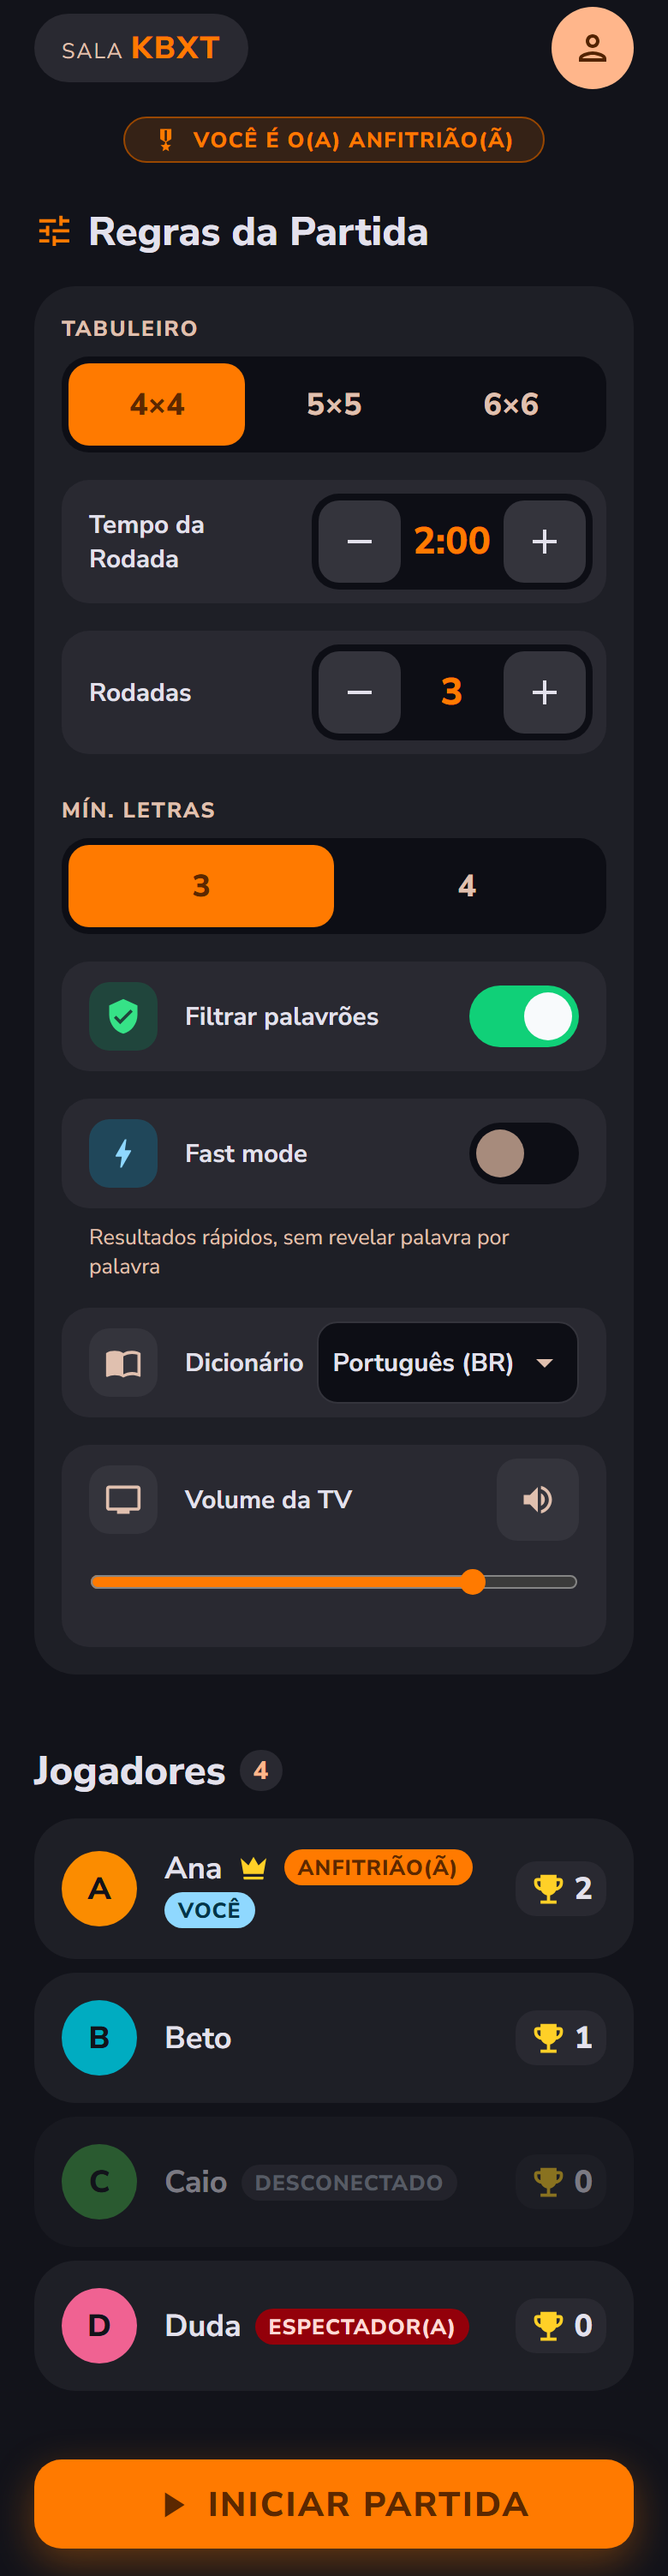
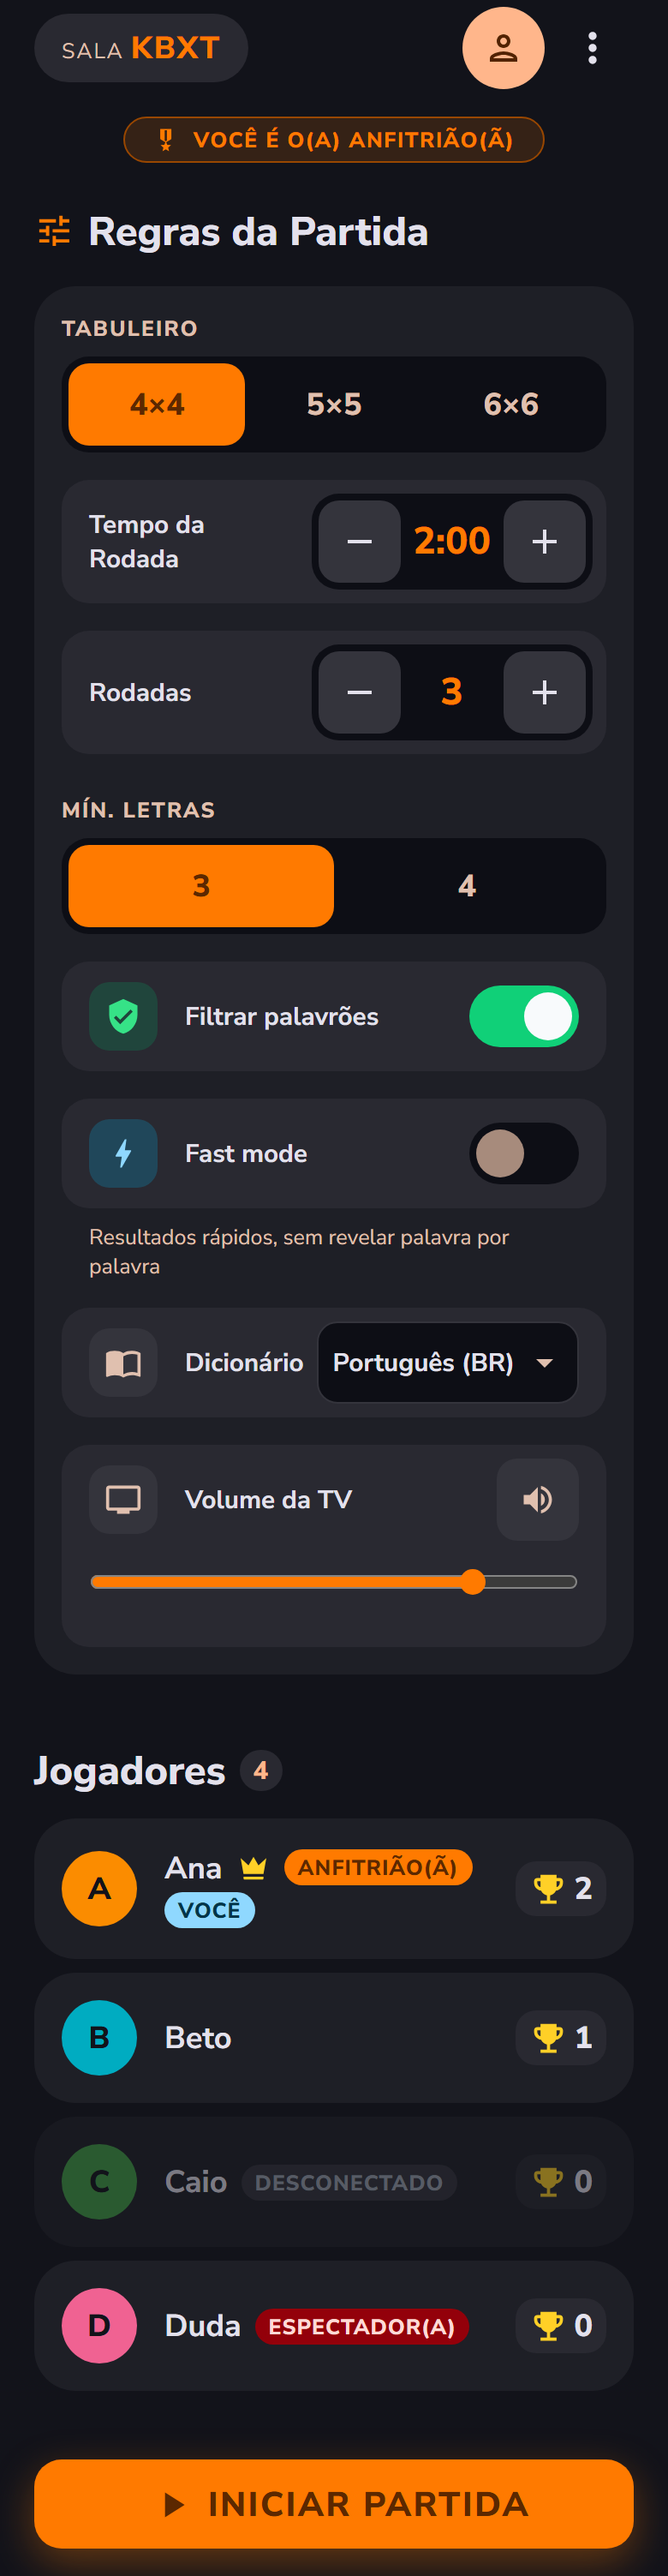
feat(phone): host menu
The host's menu (⋮) with Encerrar sala behind a confirmation; tasks.md records the phase 3 batch as returned.

Changed region(s): [[0.6769, 0.0, 0.9538, 0.0619]]

diff --git a/packages/phone/src/components/HostMenu.tsx b/packages/phone/src/components/HostMenu.tsx
@@ -1,0 +1,67 @@
+import { useState } from 'preact/hooks';
+import { STRINGS } from '../strings/pt-BR.ts';
+import '../styles/host-menu.css';
+import { ConfirmDialog } from './ConfirmDialog.tsx';
+import { MoreVertIcon } from './icons.tsx';
+
+/** One entry of the host's menu; it acts only after its confirmation. */
+export interface HostMenuItem {
+  label: string;
+  /** The question asked before acting, as "Encerrar a sala? Todos os jogadores saem.". */
+  confirm: string;
+  onConfirm: () => void;
+}
+
+/** Props of `HostMenu`. */
+export interface HostMenuProps {
+  items: readonly HostMenuItem[];
+}
+
+/**
+ * The host's menu (⋮) in the top bar; every entry asks for a confirmation and only
+ * then acts (HOST-01 AC 15, HOSTPLAY-01).
+ */
+export function HostMenu({ items }: HostMenuProps) {
+  const [isOpen, setOpen] = useState(false);
+  const [confirming, setConfirming] = useState<HostMenuItem | null>(null);
+
+  function choose(item: HostMenuItem): void {
+    setOpen(false);
+    setConfirming(item);
+  }
+
+  function confirm(item: HostMenuItem): void {
+    setConfirming(null);
+    item.onConfirm();
+  }
+
+  return (
+    <div class="host-menu">
+      <button type="button" class="host-menu__toggle" aria-label={STRINGS.hostMenu} aria-expanded={isOpen} onClick={() => setOpen(!isOpen)}>
+        <MoreVertIcon />
+      </button>
+      {isOpen && (
+        <>
+          <div class="host-menu__backdrop" aria-hidden="true" onClick={() => setOpen(false)} />
+          <ul class="host-menu__list" role="menu">
+            {items.map((item) => (
+              <li key={item.label} role="none">
+                <button type="button" role="menuitem" class="host-menu__item" onClick={() => choose(item)}>
+                  {item.label}
+                </button>
+              </li>
+            ))}
+          </ul>
+        </>
+      )}
+      {confirming !== null && (
+        <ConfirmDialog
+          message={confirming.confirm}
+          confirmLabel={confirming.label}
+          onConfirm={() => confirm(confirming)}
+          onCancel={() => setConfirming(null)}
+        />
+      )}
+    </div>
+  );
+}

diff --git a/packages/phone/e2e/host-actions.spec.ts b/packages/phone/e2e/host-actions.spec.ts
@@ -134,3 +134,33 @@ test('swaps lobbies when the host changes', async ({ page, browser }) => {
     tv.close();
   }
 });
+
+test('closes the room only after the confirmation', async ({ page }) => {
+  // HOST-01 AC 15: "Encerrar sala" in the menu (⋮) asks first; "Cancelar" sends nothing, confirming sends `close-room`.
+  const room = await hostWithBeto(page);
+  const openCloseRoom = async () => {
+    await page.getByRole('button', { name: STRINGS.hostMenu }).click();
+    await page.getByRole('menuitem', { name: STRINGS.closeRoom }).click();
+    await expect(page.getByRole('alertdialog')).toContainText(STRINGS.confirmCloseRoom);
+  };
+  try {
+    await openCloseRoom();
+    expect(room.beto.messages().some(isType('closed'))).toBe(false);
+    await page.getByRole('alertdialog').getByRole('button', { name: STRINGS.cancel }).click();
+    await expect(page.getByRole('alertdialog')).toBeHidden();
+
+    // The server answers in order: once this later change is back, a `close-room` from "Cancelar" would be too.
+    await page.getByRole('group', { name: STRINGS.boardLabel }).getByRole('button', { name: '5×5' }).click();
+    await room.beto.waitFor((msg): msg is Extract<ServerMessage, { type: 'settings' }> => msg.type === 'settings' && msg.settings.size === 5);
+    expect(room.beto.messages().some(isType('closed'))).toBe(false);
+
+    await openCloseRoom();
+    await page.getByRole('alertdialog').getByRole('button', { name: STRINGS.closeRoom }).click();
+
+    const closed = await room.beto.waitFor(isType('closed'));
+    expect(closed.reason).toBe('closed-by-host');
+    await expect(page.getByRole('heading', { name: STRINGS.hostClosedRoom('Ana') })).toBeVisible();
+  } finally {
+    room.close();
+  }
+});

diff --git a/packages/phone/src/styles/host-menu.css b/packages/phone/src/styles/host-menu.css
@@ -1,0 +1,54 @@
+/* The host's menu (⋮) in the top bar (HOST-01 AC 15). */
+.host-menu {
+  position: relative;
+  margin-left: var(--space-xs);
+}
+
+.host-menu__toggle {
+  display: flex;
+  align-items: center;
+  justify-content: center;
+  width: var(--touch-target);
+  height: var(--touch-target);
+  border: 0;
+  border-radius: var(--radius-full);
+  background: transparent;
+  color: var(--color-on-surface);
+  font-size: 28px;
+  cursor: pointer;
+}
+
+.host-menu__backdrop {
+  position: fixed;
+  inset: 0;
+  z-index: 5;
+}
+
+.host-menu__list {
+  position: absolute;
+  top: 100%;
+  right: 0;
+  z-index: 6;
+  min-width: min(60vw, 14rem);
+  margin: var(--space-xs) 0 0;
+  padding: var(--space-xs);
+  border: 1px solid var(--color-card-stroke);
+  border-radius: var(--radius-lg);
+  background: var(--color-surface-container-high);
+  list-style: none;
+}
+
+.host-menu__item {
+  width: 100%;
+  min-height: var(--touch-target);
+  padding: 0 var(--space-md);
+  border: 0;
+  border-radius: var(--radius-md);
+  background: transparent;
+  color: var(--color-error);
+  font-size: var(--font-size-body-lg);
+  font-weight: var(--font-weight-bold);
+  text-align: left;
+  white-space: nowrap;
+  cursor: pointer;
+}

diff --git a/packages/phone/src/screens/HostLobbyScreen.tsx b/packages/phone/src/screens/HostLobbyScreen.tsx
@@ -1,4 +1,5 @@
 import { useState } from 'preact/hooks';
+import { HostMenu } from '../components/HostMenu.tsx';
 import { MedalIcon, PlayArrowIcon, TuneIcon } from '../components/icons.tsx';
 import { PlayerRow } from '../components/PlayerRow.tsx';
 import { PrimaryButton } from '../components/PrimaryButton.tsx';
@@ -13,7 +14,7 @@ import '../styles/host-lobby.css';
 /**
  * The host's lobby: "VOCÊ É O(A) ANFITRIÃO(Ã)", the editable match settings, the
  * players and "INICIAR PARTIDA", always enabled because the host may play alone
- * (HOST-01 AC 1-9, 14, phone-host-lobby.png). A tap on another player opens their
+ * (HOST-01 AC 1-9, 14-15, phone-host-lobby.png). A tap on another player opens their
  * actions (HOST-01 AC 10-13).
  */
 export function HostLobbyScreen() {
@@ -26,7 +27,10 @@ export function HostLobbyScreen() {
 
   return (
     <main class="screen host-lobby">
-      <TopBar code={view.code ?? ''} />
+      <TopBar
+        code={view.code ?? ''}
+        menu={<HostMenu items={[{ label: STRINGS.closeRoom, confirm: STRINGS.confirmCloseRoom, onConfirm: room.closeRoom }]} />}
+      />
 
       <p class="host-lobby__badge">
         <MedalIcon />

diff --git a/packages/phone/src/strings/pt-BR.ts b/packages/phone/src/strings/pt-BR.ts
@@ -82,6 +82,8 @@ export const STRINGS = {
   confirmKickAction: 'Remover',
   startMatch: 'INICIAR PARTIDA',
   closeRoom: 'Encerrar sala',
+  confirmCloseRoom: 'Encerrar a sala? Todos os jogadores saem.',
+  hostMenu: 'Menu do(a) anfitrião(ã)',
   notHost: 'Só o(a) anfitrião(ã) pode fazer isso',
   badSettings: 'Essa configuração não é válida',
   badTarget: 'Esse jogador não está mais na sala',

diff --git a/packages/phone/src/components/icons.tsx b/packages/phone/src/components/icons.tsx
@@ -269,3 +269,11 @@ export function CelebrationIcon() {
     </Svg>
   );
 }
+
+export function MoreVertIcon() {
+  return (
+    <Svg>
+      <path d="M12 8c1.1 0 2-.9 2-2s-.9-2-2-2-2 .9-2 2 .9 2 2 2zm0 2c-1.1 0-2 .9-2 2s.9 2 2 2 2-.9 2-2-.9-2-2-2zm0 6c-1.1 0-2 .9-2 2s.9 2 2 2 2-.9 2-2-.9-2-2-2z" />
+    </Svg>
+  );
+}

diff --git a/.specs/features/m3-phone/tasks.md b/.specs/features/m3-phone/tasks.md
@@ -535,9 +535,9 @@ T36 → T37 → T38 → T39 → T40 → T41 → T42
 
 **Done when**:
 
-- [ ] C40 passa
-- [ ] Gate check passes: full
-- [ ] Test count: anterior + novos, nenhum removido
+- [x] C40 passa
+- [x] Gate check passes: full
+- [x] Test count: anterior + novos, nenhum removido
 
 **Tests**: e2e
 **Gate**: full
@@ -1411,7 +1411,7 @@ Proof: walk - cada foto em `captures/uncaptured/` com a resposta do user em `## 
 The feature's live state, written as it happens - a compaction gives no warning.
 
 **Settled mid-build:** defaults da fase 2 aceitos, com a correção do nome do anfitrião em laranja com "…" na tela de entrada (T44) e da reconexão depois de `room-not-found` (T43); user: "Aceito, seguir" (resposta à pergunta "Aceita os defaults da fase 2 e sigo para a fase 3, já corrigindo os dois achados?"); paleta do design system "BWords Party System" em `packages/theme/tokens.css`, usada pelo celular e pelas ferramentas (AD-017); user: "Aceito seguir, mas antes disso, registre a paleta de cores do projeto de acordo com as cores que tem definidas no MCP do layout, crie as variaveis css e reutilize em todo o projeto"; default da T43 aceito: depois de `room-not-found` a conexão fica `closed` e CONTINUAR abre um socket novo; user: "Aceito como está."
-**Dispatched:** batch worker fase 1 (T1-T8) em HEAD 3db40cb - returned (T1-T8 em b3e2638..a0418b6; phone 116 testes, vitest total 551, build gate verde). Desvios marcados com SPEC_DEVIATION, a confirmar pelo user: `screenFor(view, serverNow)` sem o parâmetro de conexão e com a tela extra `connecting`; `openSocket` é `(path, events) => {send, close}` com `schedule` injetado, e o adaptador do navegador fica em `net/browser.ts`. Defaults do worker, a confirmar: token em `bwords.token.<CODE>`; textos próprios para `bad-message`, `wrong-phase`, `not-host`, `bad-token`, `bad-color`, `bad-settings`, `bad-target`; `bad-token` apaga o token e reconecta sem ele; `replaced` mantém o token; `join` manda o apelido aparado mesmo inválido, para o servidor responder `bad-nickname`; cores de alerta #ffd23f, texto secundário #a8a6b4 e texto sobre primária #2e1500. Para a fase 2: `main.tsx` monta o store com `createRoomConnection` + `browserSocket`; `app.tsx` precisa de um relógio que bata para trocar a contagem pelo tabuleiro; fakes de teste em `src/testing/fakes.ts`; batch worker fase 2 (T9-T14) em HEAD 4c677ca - returned (T9-T14 em 49aaa6d..2df4134, com o 765c0d1 do orquestrador no meio; phone vitest 153, phone e2e 18, vitest total 588, play e2e 10; build gate verde). Fotos `phone-code`, `phone-join` e `phone-lobby` `.running.png` a 390 px, por uma config separada (`playwright.pictures.config.ts`) com sala simulada (`e2e/fake-room.ts`). Defaults do worker, a confirmar: textos novos ("Jogadores", "Você", aria-labels); cor pré-selecionada = primeira livre do PALETTE; campo de apelido limitado a 12 caracteres; erros de apelido sob o campo, de cor sob as cores, o resto acima de ENTRAR; CONTINUAR incompleto foca a primeira caixa vazia; tela de entrada sem ícone de preferências; ícone de preferências sem ação até a T37. Diferenças visuais pendentes: em `phone-join` o nome do anfitrião não está em laranja e falta o "…" de "Aguardando Ana iniciar a partida…". Achado: em `room-not-found` o servidor fecha sem `closed` e a conexão segue tentando reconectar em segundo plano; batch worker fase 3 (T43, T44, T15-T19) em HEAD 2b19d53 - pausado pelo user depois da T43 (`9e61a18`); T44 e T15-T19 por fazer; batch worker fase 3, resto (T44, T15-T19), a partir de 47801cc + o registro do default da T43 - dispatched
+**Dispatched:** batch worker fase 1 (T1-T8) em HEAD 3db40cb - returned (T1-T8 em b3e2638..a0418b6; phone 116 testes, vitest total 551, build gate verde). Desvios marcados com SPEC_DEVIATION, a confirmar pelo user: `screenFor(view, serverNow)` sem o parâmetro de conexão e com a tela extra `connecting`; `openSocket` é `(path, events) => {send, close}` com `schedule` injetado, e o adaptador do navegador fica em `net/browser.ts`. Defaults do worker, a confirmar: token em `bwords.token.<CODE>`; textos próprios para `bad-message`, `wrong-phase`, `not-host`, `bad-token`, `bad-color`, `bad-settings`, `bad-target`; `bad-token` apaga o token e reconecta sem ele; `replaced` mantém o token; `join` manda o apelido aparado mesmo inválido, para o servidor responder `bad-nickname`; cores de alerta #ffd23f, texto secundário #a8a6b4 e texto sobre primária #2e1500. Para a fase 2: `main.tsx` monta o store com `createRoomConnection` + `browserSocket`; `app.tsx` precisa de um relógio que bata para trocar a contagem pelo tabuleiro; fakes de teste em `src/testing/fakes.ts`; batch worker fase 2 (T9-T14) em HEAD 4c677ca - returned (T9-T14 em 49aaa6d..2df4134, com o 765c0d1 do orquestrador no meio; phone vitest 153, phone e2e 18, vitest total 588, play e2e 10; build gate verde). Fotos `phone-code`, `phone-join` e `phone-lobby` `.running.png` a 390 px, por uma config separada (`playwright.pictures.config.ts`) com sala simulada (`e2e/fake-room.ts`). Defaults do worker, a confirmar: textos novos ("Jogadores", "Você", aria-labels); cor pré-selecionada = primeira livre do PALETTE; campo de apelido limitado a 12 caracteres; erros de apelido sob o campo, de cor sob as cores, o resto acima de ENTRAR; CONTINUAR incompleto foca a primeira caixa vazia; tela de entrada sem ícone de preferências; ícone de preferências sem ação até a T37. Diferenças visuais pendentes: em `phone-join` o nome do anfitrião não está em laranja e falta o "…" de "Aguardando Ana iniciar a partida…". Achado: em `room-not-found` o servidor fecha sem `closed` e a conexão segue tentando reconectar em segundo plano; batch worker fase 3 (T43, T44, T15-T19) em HEAD 2b19d53 - pausado pelo user depois da T43 (`9e61a18`); T44 e T15-T19 por fazer; batch worker fase 3, resto (T44, T15-T19), a partir de 47801cc + o registro do default da T43 - returned (T44 db23629, T15 93979cf, T16 721e4aa, T17 101f0c6, T18 d2ac898, T19 no commit desta nota; phone vitest 160, phone e2e 38, vitest total 595, play e2e 10; build gate verde). Fotos a 390 px: `phone-join` refeita, `phone-host-lobby`, `phone-host-actions`, `phone-kicked` e `phone-room-closed` `.running.png`; as do anfitrião numa janela da altura da página, para o botão fixo e a folha ficarem no pé, como na capture. Defaults do worker, a confirmar: `formatRoundTime` no lugar de `formatSeconds`; contagem do lobby do anfitrião só com o número ("4"), como na capture; sem a bandeira no seletor de dicionário e sem o foguete em INICIAR PARTIDA; confirmação de remover com o botão "Remover"; confirmação de encerrar com "Encerrar a sala? Todos os jogadores saem." e o botão "Encerrar sala"; "Encerrar sala" em vermelho no menu; `idle`/`tv-gone` sem "Obrigado por jogar!"; tela `replaced` só com o texto, sem botão; volume enviado no `change` do slider (ao soltar). Lacuna: C39 confere que o servidor mandou `round-start` e que os celulares saíram do lobby; a contagem ainda é a tela de conexão até a fase 5. Para a fase 4+: `HostMenu` recebe itens com confirmação (servirá a "Voltar ao lobby"), `ConfirmDialog` e `Sheet` prontos; jogadores Node do E2E têm `waitFor` e `messages()`.
 **Walked:** none
 
 ---
